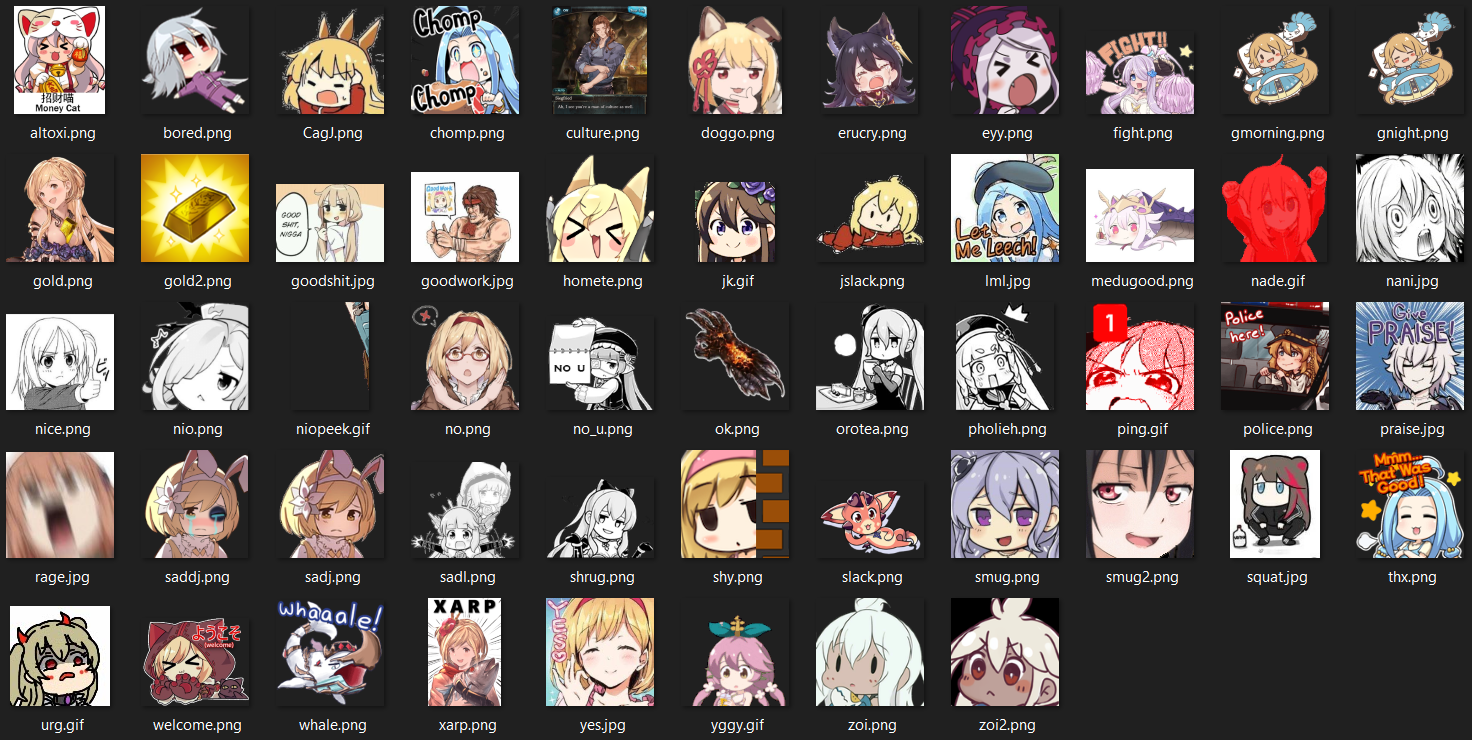
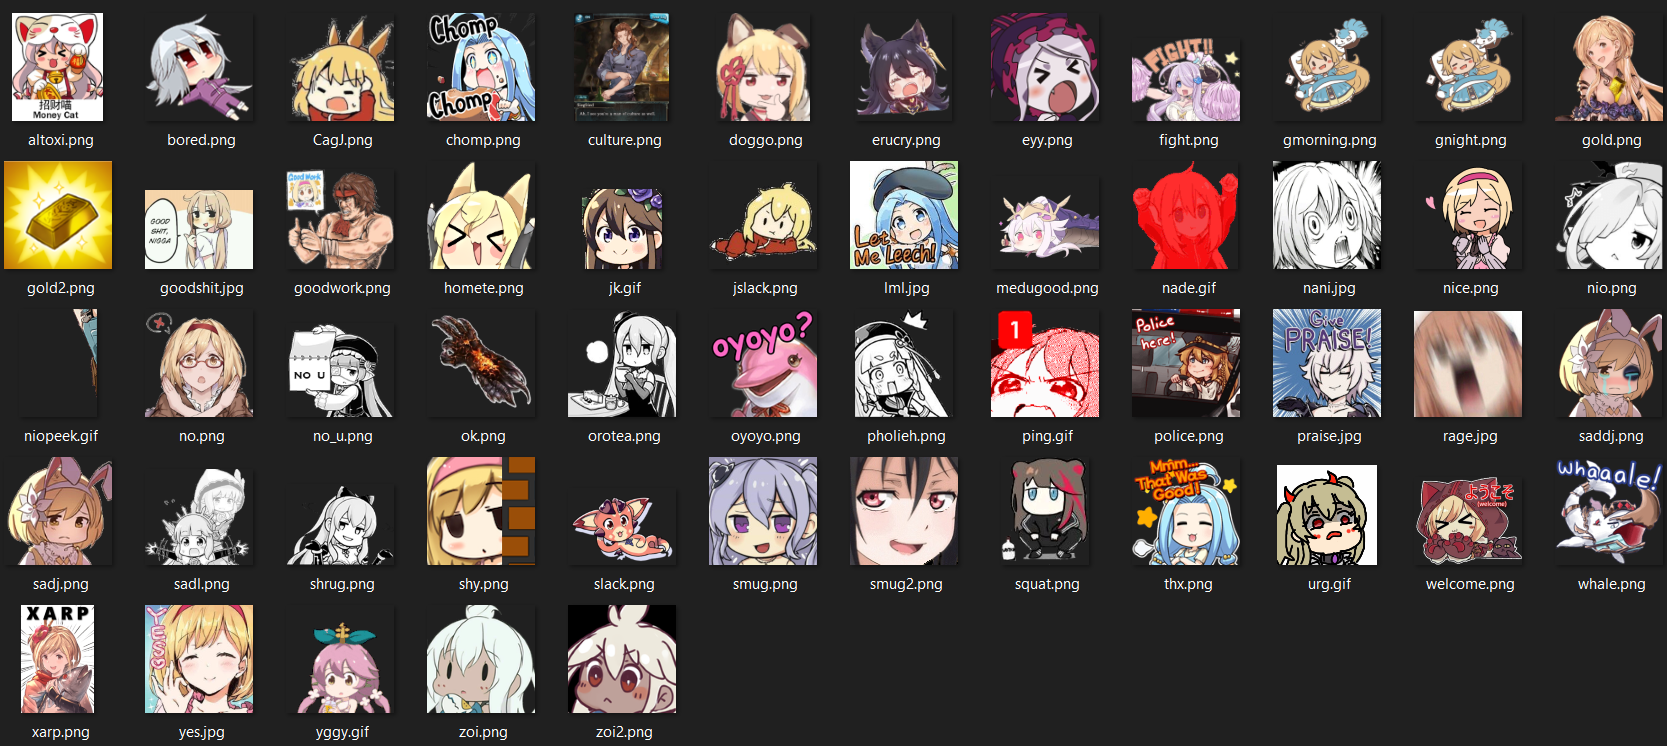
update emoji

diff --git a/bot.js b/bot.js
@@ -141,6 +141,12 @@ bot.on('message', message => {
                 file: "https://raw.githubusercontent.com/Xhaj97/Djeeta_bot/master/img/bored.png"
             });
         }
+		else if (str.includes("oyoyo"))
+        {
+            message.channel.send(" ", {
+                file: "https://raw.githubusercontent.com/Xhaj97/Djeeta_bot/master/img/oyoyo.png"
+            });
+        }
         else if (str.includes("doggo"))
         {
             message.channel.send(" ", {
